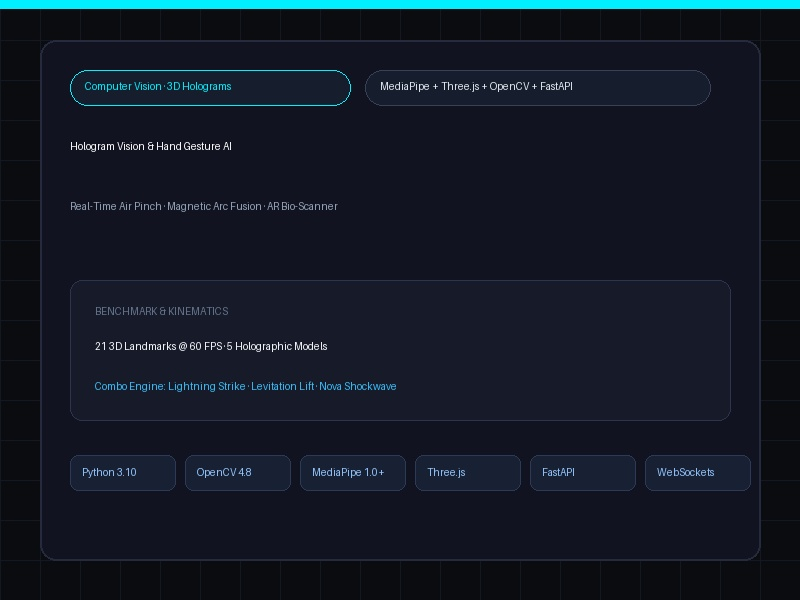
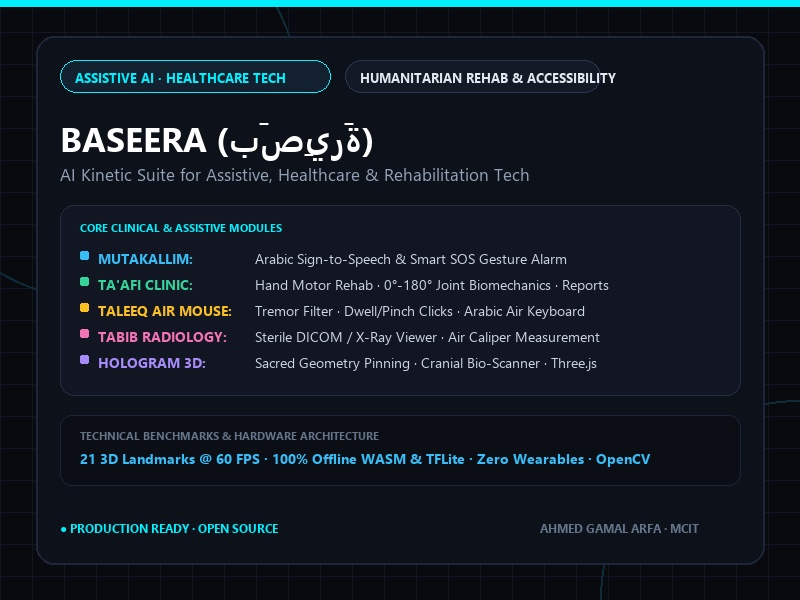
feat: integrate BASEERA Assistive Suite (Mutakallim, Ta'afi, Taleeq, Tabib) into portfolio

diff --git a/content.js b/content.js
@@ -38,16 +38,45 @@ const heroContent = {
     projects: [
       {
         key: "hand-automation",
-        name: "Hologram Vision AI",
+        name: "BASEERA (بَصِيرَة)",
         img: "assets/work-hand-automation.jpg",
         w: 800,
         h: 600,
-        cat: "Computer Vision · 3D AR",
+        cat: "Assistive AI · Healthcare · Computer Vision",
         year: "2026",
         accent: "#00f0ff",
-        title: "Hologram Vision & Hand Gesture Suite (Real-Time 3D Holograms & AR Bio-Scanner)",
+        title: "BASEERA (بَصِيرَة) — AI Kinetic Suite for Assistive, Healthcare & Rehabilitation Tech",
         github: "https://github.com/AhmdArFa/hand-automation",
-        desc: "Interactive computer vision suite using OpenCV, MediaPipe 3D hand tracking (21 landmarks @ 60 FPS), Three.js holograms, and FastAPI. Features sacred geometry pinning in thin air, magnetic arc fusion, cranial X-ray bio-scanner, and gesture spell combos.",
+        desc: "منصة ذكاء اصطناعي إنسانية ورعاية صحية تحول كاميرا الويب العادية إلى منظومة تتبع كينيتيكي ثلاثية الأبعاد (21 مفصلاً تشريحياً @ 60 FPS) محلياً 100% بدون إنترنت عبر MediaPipe WASM و OpenCV. تضم 4 عيادات ووحدات مساعدة بالإضافة إلى استوديو الهولوجرام ثلاثي الأبعاد.",
+        quote: "تسخير الذكاء الاصطناعي ليكون عوناً للإنسان: صوتاً لمن لا يستطيع الكلام، وعيادة تأهيل حركي، وحرية تحكم لذوي الشلل، ودرعاً معقماً في غرف العمليات الجراحية.",
+        badges: ["60 FPS Real-Time", "21 3D Landmarks", "100% Offline WASM & TFLite", "Zero Wearables", "FastAPI & OpenCV"],
+        modules: [
+          {
+            name: "🧏♂ مُتَكَلِّم (Mutakallim)",
+            sub: "مترجم لغة الإشارة واستغاثة الطوارئ SOS",
+            desc: "ترجمة فورية لعشر إشارات يومية إلى صوت عربي طبيعي، مع تواصل صوتي ثنائي الاتجاه، ونظام استغاثة SOS فوري عند إشارة الخطر العالمية."
+          },
+          {
+            name: "🏥 تَعَافِي (Ta'afi)",
+            sub: "عيادة التأهيل والعلاج الطبيعي الحركي",
+            desc: "حساب زوايا مفاصل الأصابع الخمسة بدقة (0°-180°)، مؤشر مرونة اليد ROM، 4 بروتوكولات تمارين طبية موجهة، وتصدير تقرير طبي سريري."
+          },
+          {
+            name: "🖱 طَلِيق (Taleeq)",
+            sub: "الفأرة الهوائية ولوحة المفاتيح اللاتلامسية",
+            desc: "تتبع رأس السبابة بفلتر مانع للرعشة (EMA)، نقر تلقائي بالثبات (Dwell Click) لذوي الشلل، وتصفح ولوحة مفاتيح هوائية عربية كاملة."
+          },
+          {
+            name: "🩺 طَبِيب (Tabib)",
+            sub: "مستعرض الأشعة والتشريح الطبي المعقم",
+            desc: "استعراض صور الأشعة (X-Ray / MRI / CT) في الهواء بغرف العمليات المعقمة، تكبير حتى 350%، ومسطرة قياس رقمية بالمليمتر."
+          },
+          {
+            name: "⚡ استوديو الهولوجرام 3D",
+            sub: "Hologram Studio & Cranial Bio-Scanner",
+            desc: "تثبيت الأشكال الهندسية النيونية بالهواء، دمجها بصواعق كهربائية، وماسح بيولوجي لعظام الوجه والجمجمة وعوالم Three.js التفاعلية."
+          }
+        ]
       },
       {
         key: "nilex",
@@ -142,8 +171,8 @@ const heroContent = {
       {
         no: "01",
         title: "Applied AI & Computer Vision",
-        description: "Training convolutional backbones, YOLOv8 detectors, and OCR extraction pipelines that process document streams with sub-second inference.",
-        tags: ["PyTorch", "YOLOv8", "OpenCV", "Tesseract OCR", "ResNet-50", "Scikit-Learn"],
+        description: "Architecting convolutional backbones, YOLOv8 detectors, MediaPipe 3D kinetic biomechanics, and OCR extraction pipelines that process visual streams with sub-second inference.",
+        tags: ["PyTorch", "YOLOv8", "MediaPipe 3D", "OpenCV", "Tesseract OCR", "ResNet-50", "Scikit-Learn"],
       },
       {
         no: "02",
@@ -174,7 +203,7 @@ const heroContent = {
     skills: {
       title: "I Work With",
       groups: [
-        { name: "AI & ML", items: ["PyTorch", "YOLOv8", "OpenCV", "Scikit-Learn", "Transformers", "RAG", "Tesseract OCR"] },
+        { name: "AI & ML", items: ["PyTorch", "YOLOv8", "OpenCV", "MediaPipe 3D", "Scikit-Learn", "Transformers", "RAG", "Tesseract OCR"] },
         { name: "Data & BI", items: ["Power BI (PL-300)", "Microsoft Fabric", "DAX", "SQL Server", "PostgreSQL", "Pandas", "NumPy"] },
         { name: "Backend & Cloud", items: ["FastAPI", "JWT Auth", "Docker", "Microsoft Azure", "REST APIs", "Linux"] },
         { name: "Languages", items: ["Python", "SQL", "R", "JavaScript", "HTML5 / CSS3"] },

diff --git a/script.js b/script.js
@@ -864,11 +864,37 @@
       if (!detail) return;
       if (detailImg) { detailImg.src = data.img; detailImg.alt = data.name || data.title || ""; }
       if (detailTitle) {
+        let extraHtml = '';
+        if (data.badges && data.badges.length) {
+          extraHtml += `<div style="display:flex;flex-wrap:wrap;justify-content:center;gap:8px;margin:12px 0 16px;">` +
+            data.badges.map(b => `<span style="font-size:11.5px;font-weight:600;padding:4px 12px;border-radius:999px;background:rgba(255,255,255,0.06);border:1px solid ${data.accent || 'var(--accent)'};color:${data.accent || '#fff'};letter-spacing:0.04em;">${b}</span>`).join('') +
+            `</div>`;
+        }
+        if (data.quote) {
+          extraHtml += `
+            <div style="margin:14px auto 18px;max-width:680px;padding:12px 18px;border-radius:10px;background:rgba(0,240,255,0.05);border-left:3px solid ${data.accent || 'var(--accent)'};color:#e2e8f0;font-size:13.5px;line-height:1.6;text-align:center;font-style:italic;">
+              &ldquo;${data.quote}&rdquo;
+            </div>`;
+        }
+        if (data.modules && data.modules.length) {
+          extraHtml += `<div style="display:grid;grid-template-columns:repeat(auto-fit, minmax(260px, 1fr));gap:12px;margin:18px 0;text-align:left;max-width:760px;width:100%;">` +
+            data.modules.map(m => `
+              <div style="background:rgba(255,255,255,0.03);border:1px solid rgba(255,255,255,0.08);border-radius:10px;padding:12px 14px;">
+                <div style="font-size:13.5px;font-weight:700;color:${data.accent || '#fff'};margin-bottom:3px;">${m.name}</div>
+                <div style="font-size:11px;color:#94a3b8;margin-bottom:6px;font-weight:500;">${m.sub || ''}</div>
+                <div style="font-size:12px;color:rgba(255,255,255,0.72);line-height:1.45;">${m.desc}</div>
+              </div>
+            `).join('') +
+            `</div>`;
+        }
+
         detailTitle.innerHTML = `
-          <span style="display:block;font-size:22px;font-weight:700;color:#fff;margin-bottom:8px;">${data.title || data.name || ""}</span>
-          ${data.desc ? `<p style="font-size:14px;color:rgba(255,255,255,0.72);margin:8px 0 16px;line-height:1.6;font-family:'Inter',sans-serif;">${data.desc}</p>` : ''}
+          <div style="display:inline-block;font-size:12px;font-weight:700;letter-spacing:0.08em;text-transform:uppercase;color:${data.accent || 'var(--accent)'};margin-bottom:6px;">${data.cat || ''} &middot; ${data.year || ''}</div>
+          <span style="display:block;font-size:clamp(18px, 2.6vw, 24px);font-weight:700;color:#fff;margin-bottom:8px;line-height:1.3;">${data.title || data.name || ""}</span>
+          ${data.desc ? `<p style="font-size:13.5px;color:rgba(255,255,255,0.76);margin:8px auto 14px;max-width:700px;line-height:1.65;font-family:'Inter',sans-serif;">${data.desc}</p>` : ''}
+          ${extraHtml}
           ${data.github ? `
-            <div>
+            <div style="margin-top:12px;">
               <a href="${data.github}" target="_blank" rel="noopener" class="wk-detail-github" style="display:inline-flex;align-items:center;gap:10px;">
                 <svg class="ph-icon" viewBox="0 0 256 256" style="width:18px;height:18px;" fill="currentColor"><path d="M208.31,75.68A59.78,59.78,0,0,0,202.93,28,8,8,0,0,0,196,24a59.75,59.75,0,0,0-48,24H124A59.75,59.75,0,0,0,76,24a8,8,0,0,0-6.93,4,59.78,59.78,0,0,0-5.38,47.68A58.14,58.14,0,0,0,56,104v8a56.06,56.06,0,0,0,48.44,55.47A39.8,39.8,0,0,0,96,192v8H72a24,24,0,0,1-24-24A40,40,0,0,0,8,136a8,8,0,0,0,0,16,24,24,0,0,1,24,24,40,40,0,0,0,40,40H96v16a8,8,0,0,0,16,0V192a24,24,0,0,1,48,0v40a8,8,0,0,0,16,0V192a39.8,39.8,0,0,0-8.44-24.53A56.06,56.06,0,0,0,216,112v-8A58.14,58.14,0,0,0,208.31,75.68ZM200,112a40,40,0,0,1-40,40H112a40,40,0,0,1-40-40v-8a41.74,41.74,0,0,1,6.9-22.48A8,8,0,0,0,80,73.83a43.81,43.81,0,0,1,.79-33.58,43.88,43.88,0,0,1,32.32,20.06A8,8,0,0,0,119.82,64h32.35a8,8,0,0,0,6.74-3.69,43.87,43.87,0,0,1,32.32-20.06A43.81,43.81,0,0,1,192,73.83a8.09,8.09,0,0,0,1,7.65A41.72,41.72,0,0,1,200,104Z"/></svg>
                 <span>View Source on GitHub</span>

diff --git a/styles.css b/styles.css
@@ -2267,10 +2267,14 @@ html.works-open .wk { display: block; }
   z-index: 50;
   visibility: hidden;
   opacity: 0;
-  display: grid;
-  place-items: center;
-  align-content: center;
-  gap: 3svh;
+  display: flex;
+  flex-direction: column;
+  align-items: center;
+  justify-content: flex-start;
+  padding: 60px 24px 60px;
+  overflow-y: auto;
+  -webkit-overflow-scrolling: touch;
+  gap: 20px;
   background:
     radial-gradient(62% 24% at 50% 103%, #5c0f08 0%, rgba(30, 4, 2, 0) 70%),
     #060202;
@@ -2283,12 +2287,15 @@ html.works-open .wk { display: block; }
   transition: opacity 0.3s var(--ease-soft);
 }
 
-.wk-detail-media { margin: 0; }
+.wk-detail-media {
+  margin: 0;
+  flex-shrink: 0;
+}
 
 .wk-detail-media img {
   display: block;
   max-width: 86vw;
-  max-height: 64svh;
+  max-height: 48svh;
   border-radius: 14px;
   border: 1px solid rgba(255, 255, 255, 0.1);
   box-shadow: 0 40px 110px -30px rgba(0, 0, 0, 0.85);
@@ -2296,11 +2303,9 @@ html.works-open .wk { display: block; }
 
 .wk-detail-title {
   margin: 0;
-  max-width: 80vw;
+  max-width: 840px;
+  width: 100%;
   text-align: center;
-  font-size: clamp(14px, 2svh, 19px);
-  font-weight: 600;
-  letter-spacing: 0.02em;
   color: rgba(245, 240, 238, 0.9);
 }
 

diff --git a/index.html b/index.html
@@ -15,7 +15,7 @@
   <link rel="preconnect" href="https://fonts.googleapis.com">
   <link rel="preconnect" href="https://fonts.gstatic.com" crossorigin>
   <link href="https://fonts.googleapis.com/css2?family=Anton&family=Archivo:wdth,wght@100..125,500..700&family=Inter:ital,wght@0,400;0,500;0,600;0,700;1,700&display=swap" rel="stylesheet">
-  <link rel="stylesheet" href="styles.css?v=20">
+  <link rel="stylesheet" href="styles.css?v=21">
 </head>
 <body>
 
@@ -717,7 +717,7 @@
   <!-- cinematic black flash between chapters -->
   <div class="flash" aria-hidden="true"></div>
 
-  <script src="content.js?v=20"></script>
-  <script src="script.js?v=20"></script>
+  <script src="content.js?v=21"></script>
+  <script src="script.js?v=21"></script>
 </body>
 </html>

diff --git a/README.md b/README.md
@@ -34,7 +34,7 @@ A bespoke, cinematic scroll-driven portfolio engineered with spatial depth, dark
 
 ### 4. 🗂 3D Selected Works Dolly Carousel
 Flagship production projects with interactive 3D perspective scroll and direct GitHub source links:
-1. **Hologram Vision & Hand Gesture Suite** — Real-time computer vision suite combining OpenCV, MediaPipe 3D hand tracking (21 landmarks @ 60 FPS), Three.js holograms, air-pinch freezing, and gesture spell engine.
+1. **BASEERA (بَصِيرَة) — AI Kinetic Suite for Assistive & Healthcare Technology** — Comprehensive humanitarian computer vision and touchless accessibility platform powered by in-browser MediaPipe WASM/TFLite (21 3D landmarks @ 60 FPS, 100% offline & client-side). Features 4 clinical & assistive suites: *Mutakallim* (Arabic sign-to-speech translator & smart SOS emergency gesture detection), *Ta'afi* (hand motor rehab clinic measuring 0°-180° joint biomechanics with clinical reports), *Taleeq* (touchless air mouse with tremor filter & on-screen Arabic air keyboard), *Tabib* (sterile touchless radiology DICOM viewer with air calipers), and *3D Hologram Studio*.
 2. **NILEX E-Commerce Ecosystem** — Full-stack platform with FastAPI backend, PostgreSQL, and scalable microservices.
 3. **Egyptian National ID OCR Pipeline** — Computer vision pipeline for ID card extraction and validation.
 4. **Smart Healthcare & Hospital Management System** — Comprehensive patient, doctor, and clinic management platform.
